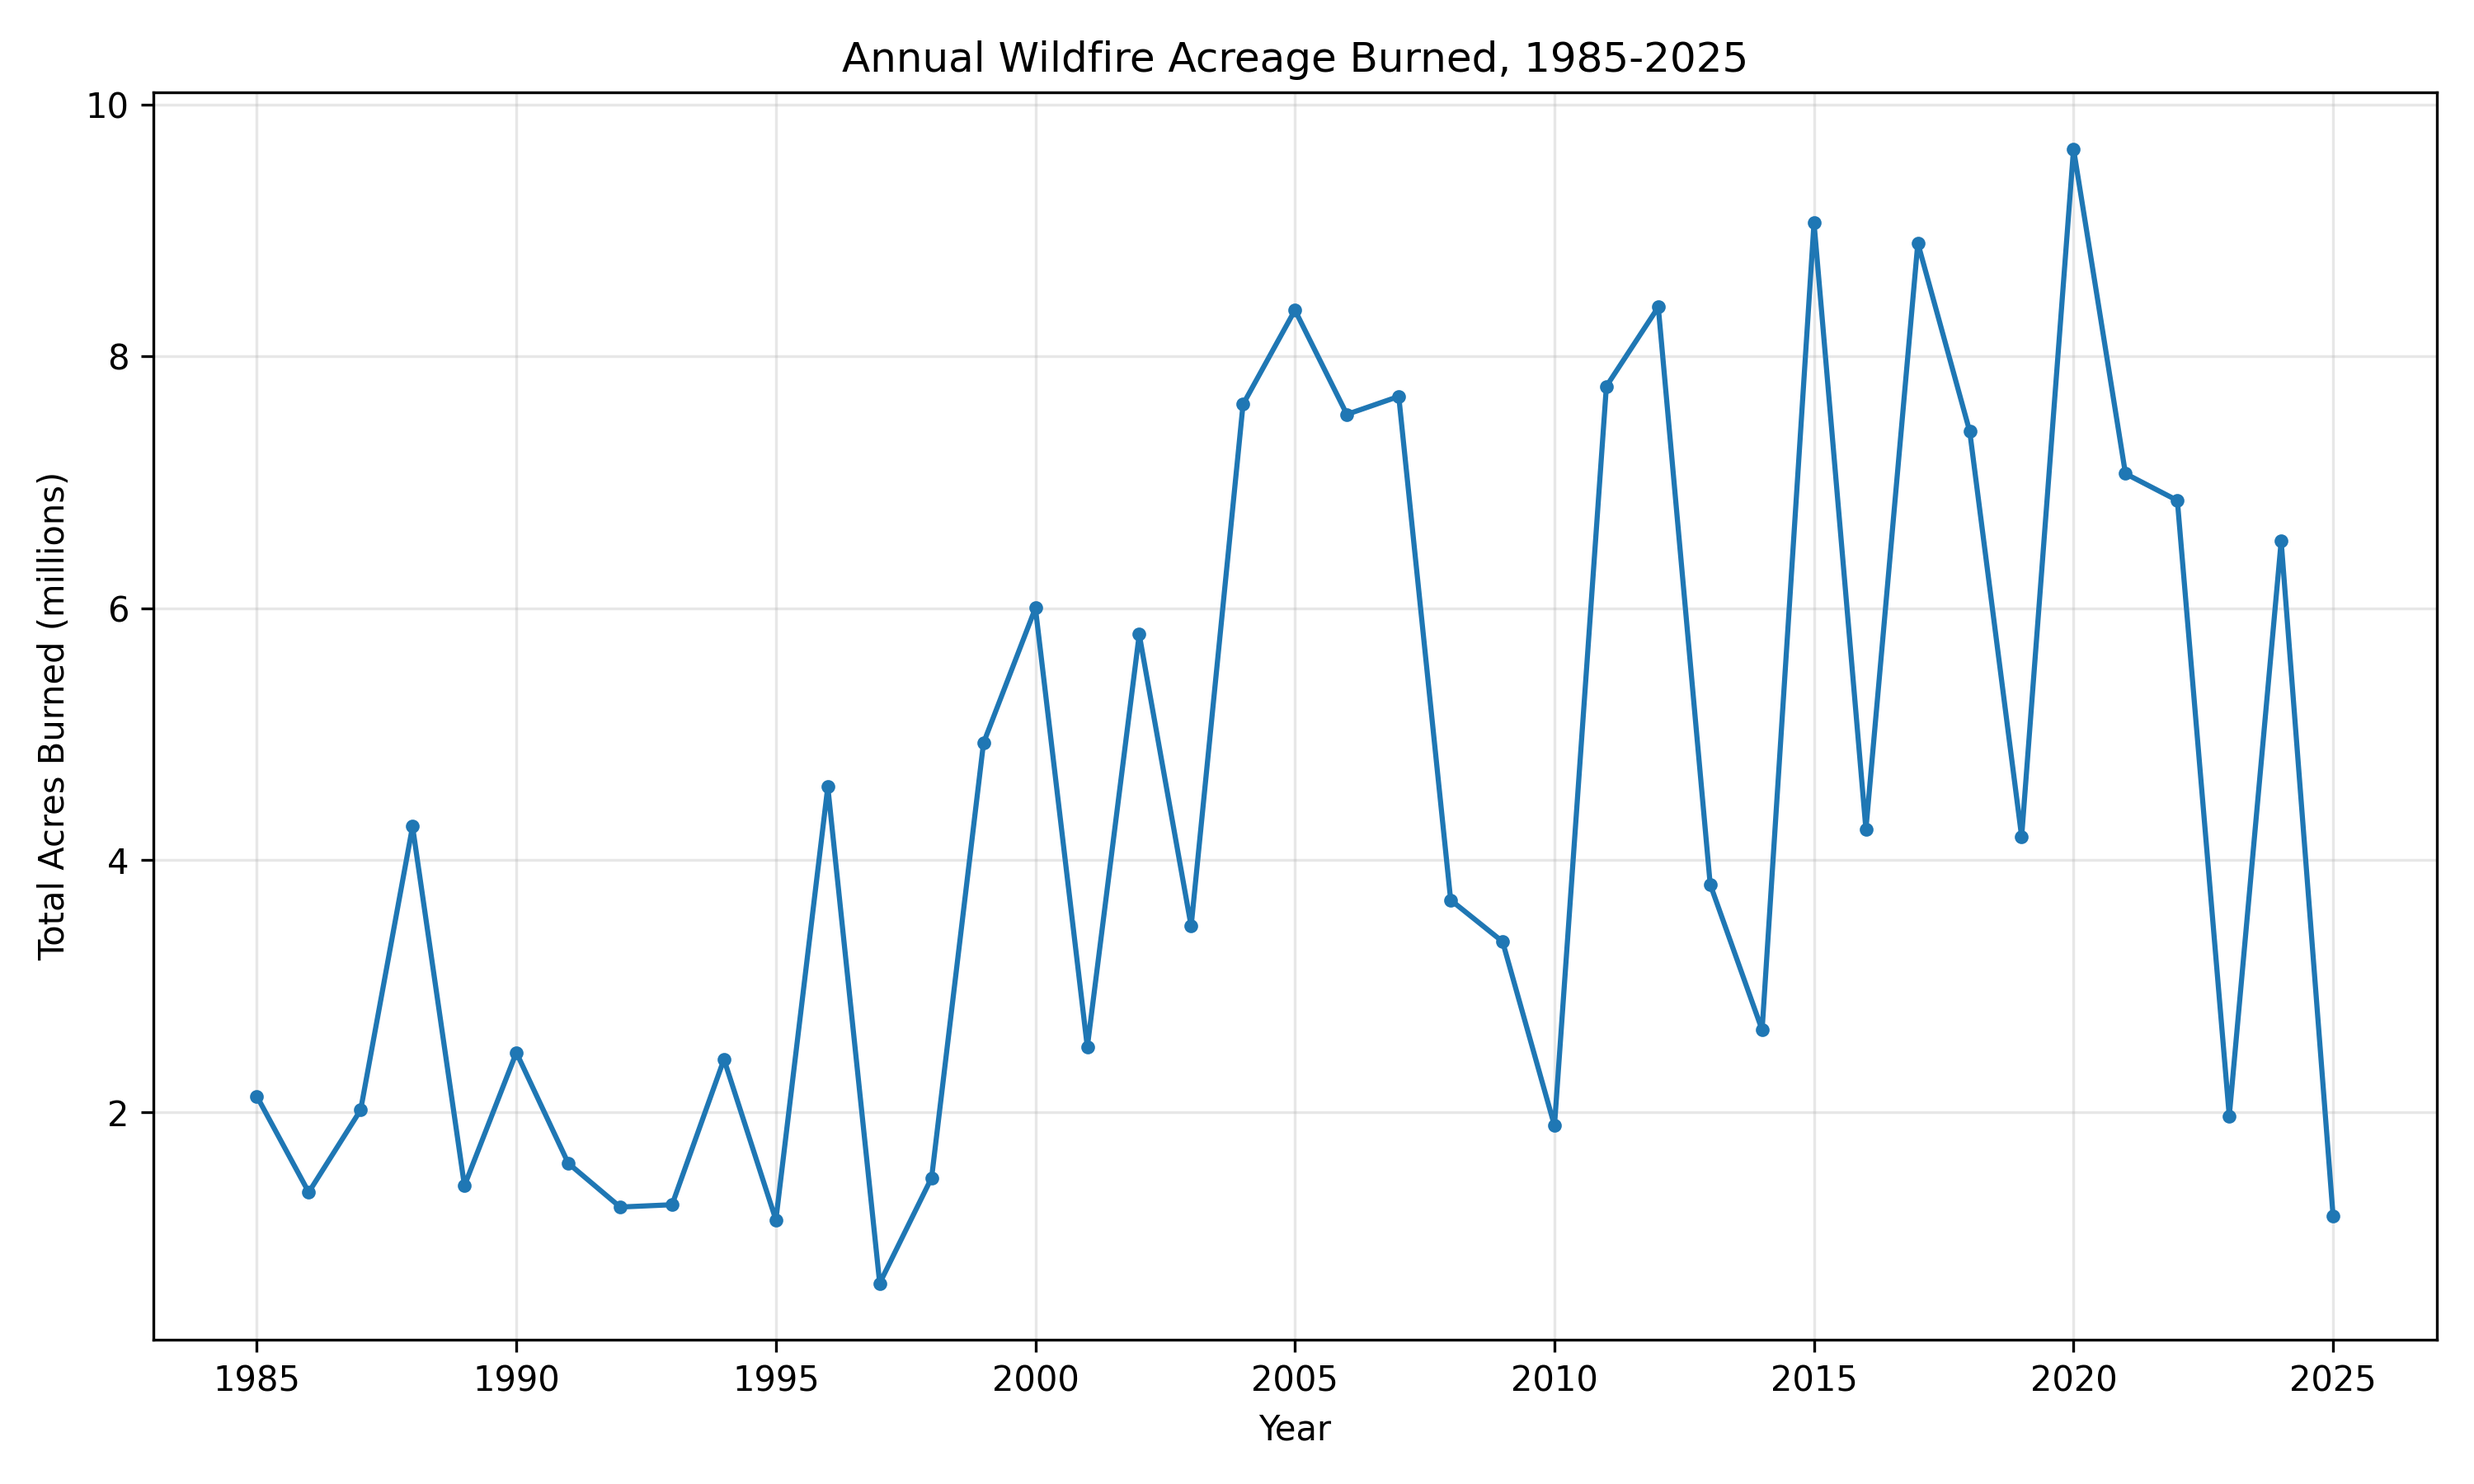
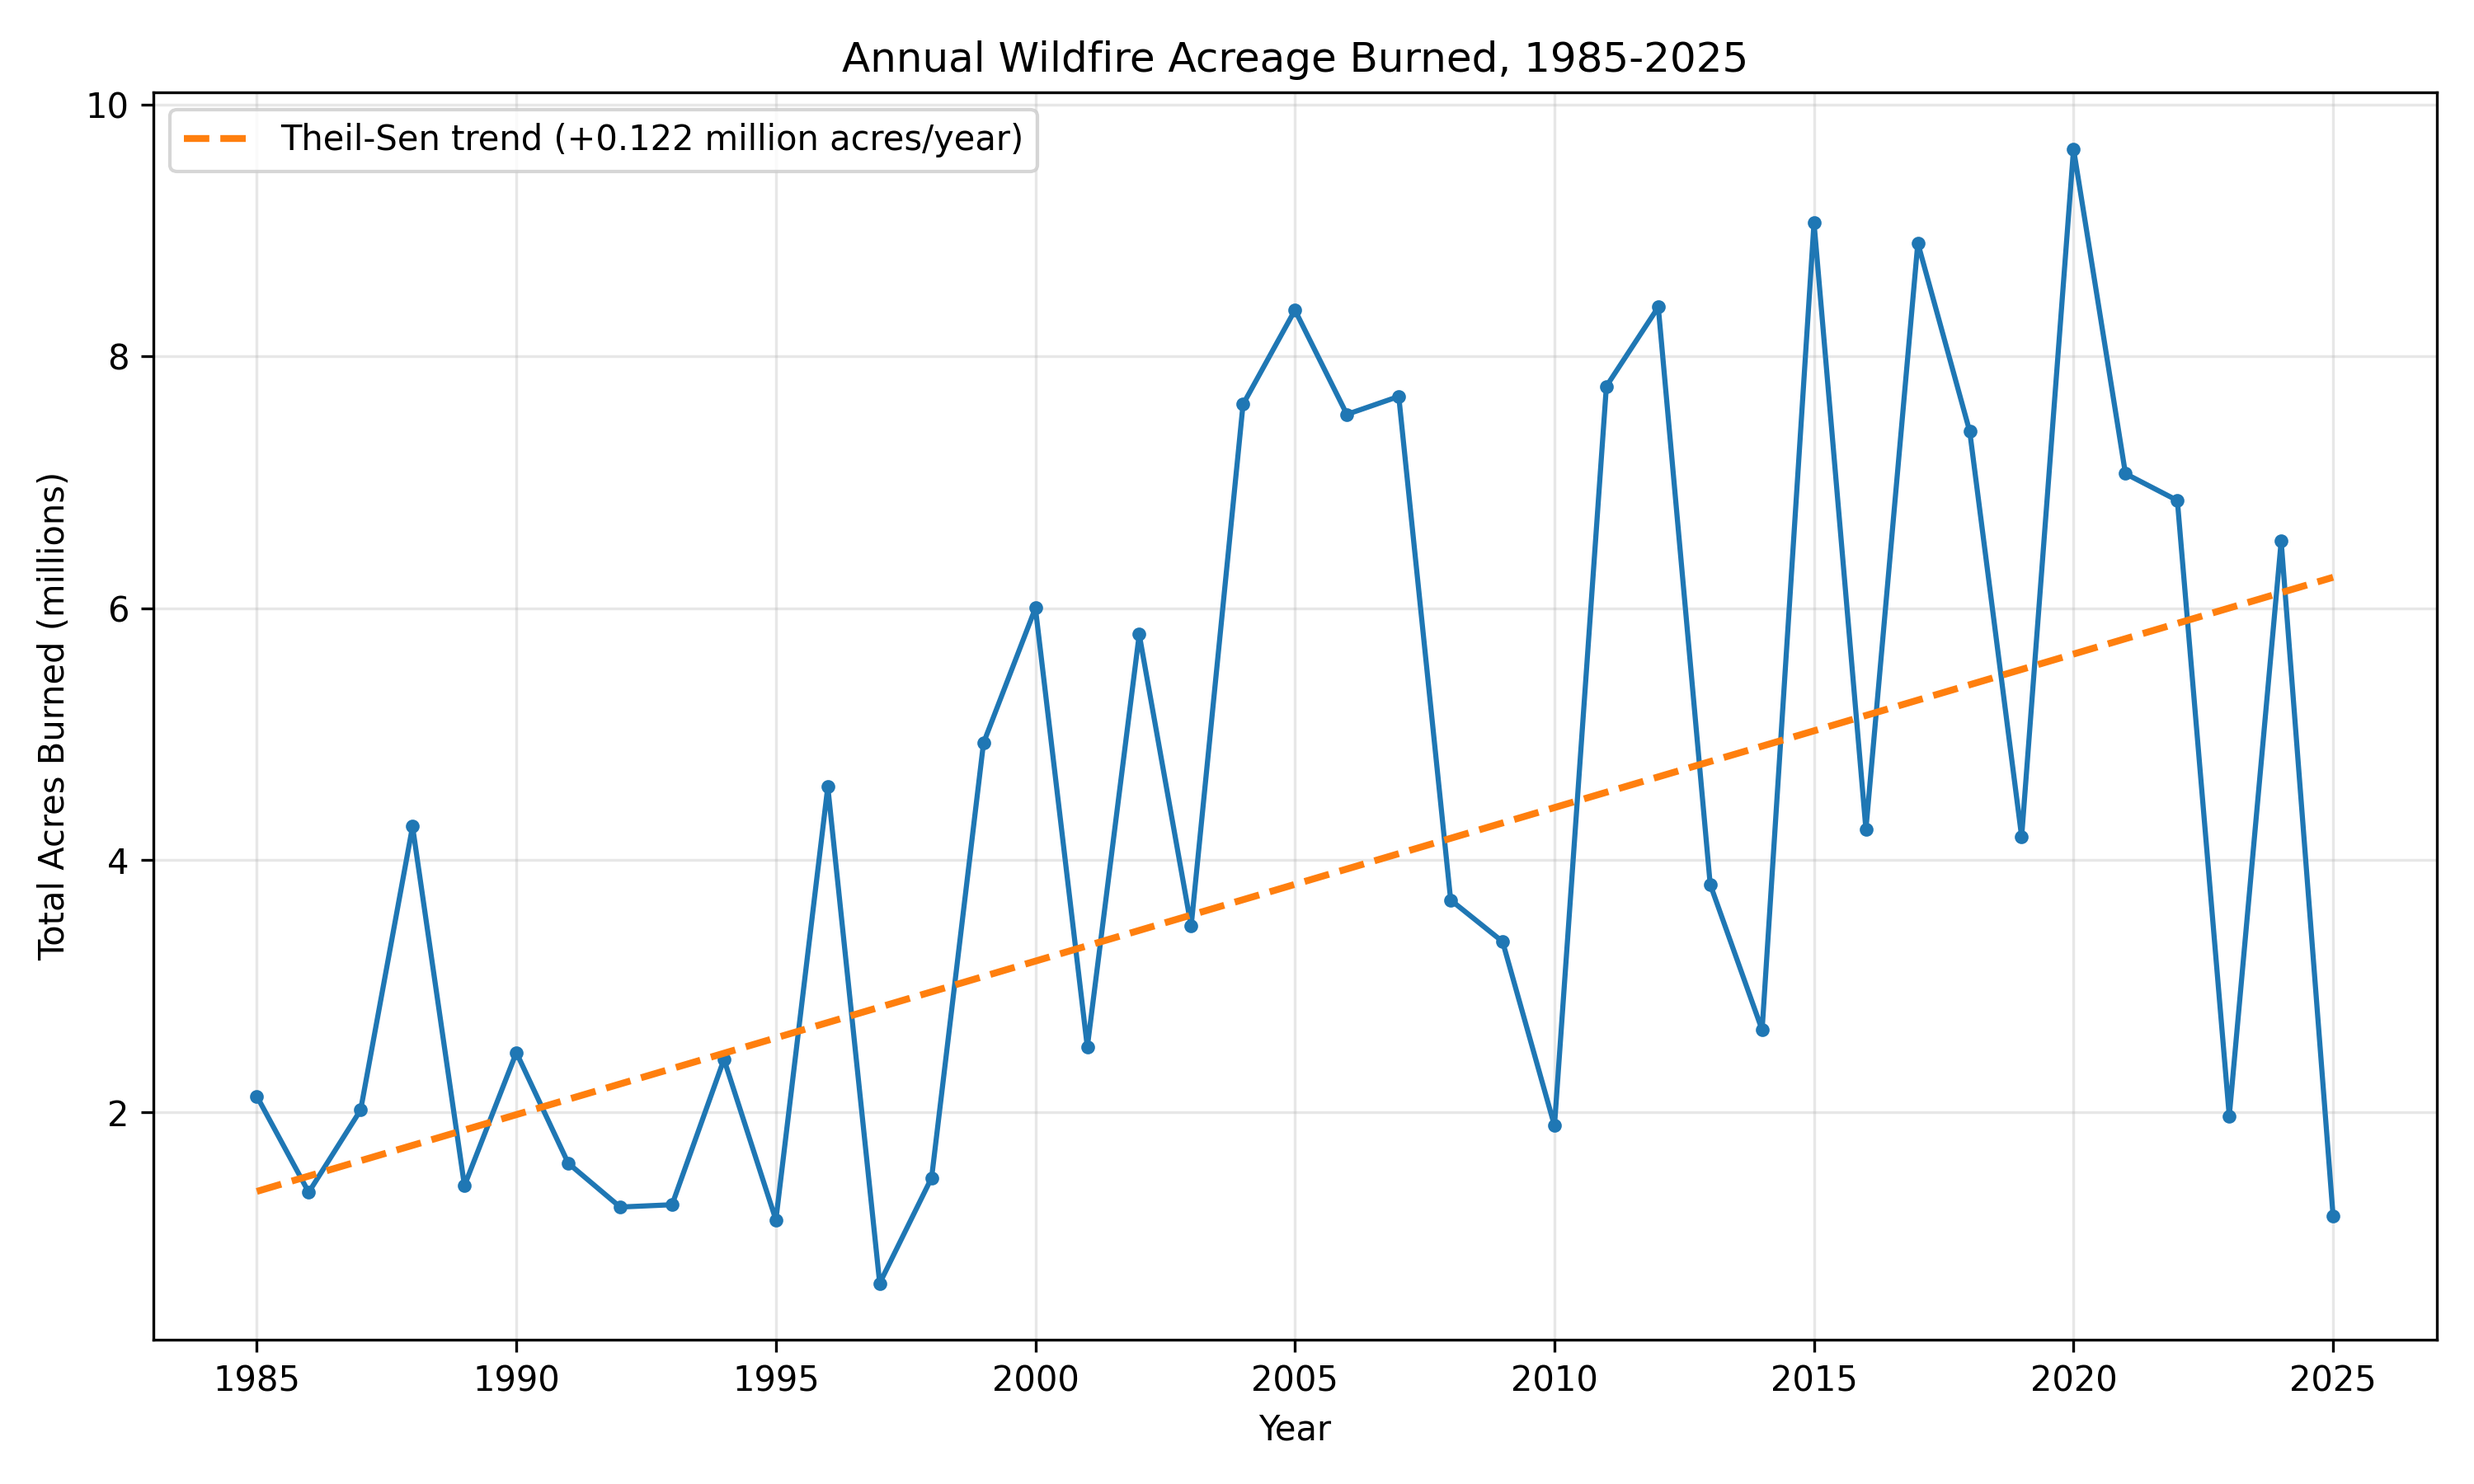
Add Theil-Sen trend and burned acerage comparison

diff --git a/fortran/plot_fires.py b/fortran/plot_fires.py
@@ -1,5 +1,6 @@
 import csv
 import matplotlib.pyplot as plt
+from scipy.stats import theilslopes
 
 years = []
 acres = []
@@ -13,7 +14,28 @@ with open('../output/annual_fire_totals.csv', 'r') as f:
 
 plt.figure(figsize=(10,6))
 
+# calculate theil-sen trend
+slope, intercept, low_slope, high_slope = theilslopes(acres, years)
+trend = [intercept + slope * year for year in years]
+
+print(f"Thiel-Sen slope: {slope:,.0f} acres per year")
+
+# compare average annual burned acerage between two periods
+early_acres = [acre for year, acre in zip(years, acres) if 1985 <= year <= 1999]
+recent_acres = [acre for year, acre in zip(years, acres) if 2000 <= year <= 2025]
+
+early_avg = sum(early_acres) / len(early_acres)
+recent_avg = sum(recent_acres) / len(recent_acres)
+
+percent_increase = ((recent_avg - early_avg) / early_avg) * 100
+print(f"1985-1999 average: {early_avg:,.0f} acres/year")
+print(f"2000-2025 average: {recent_avg:,.0f} acres/year")
+print(f"Percentage increase: {percent_increase:.1f}%")
+
 plt.plot(years, acres, marker='o', markersize=3)
+plt.plot(years, trend, linestyle='--', linewidth=2, label=f'Theil-Sen trend (+{slope/1e6:.3f} million acres/year)')
+
+plt.legend()
 
 plt.gca().yaxis.set_major_formatter(
     plt.FuncFormatter(lambda x, pos: f'{x/1e6:.0f}')
